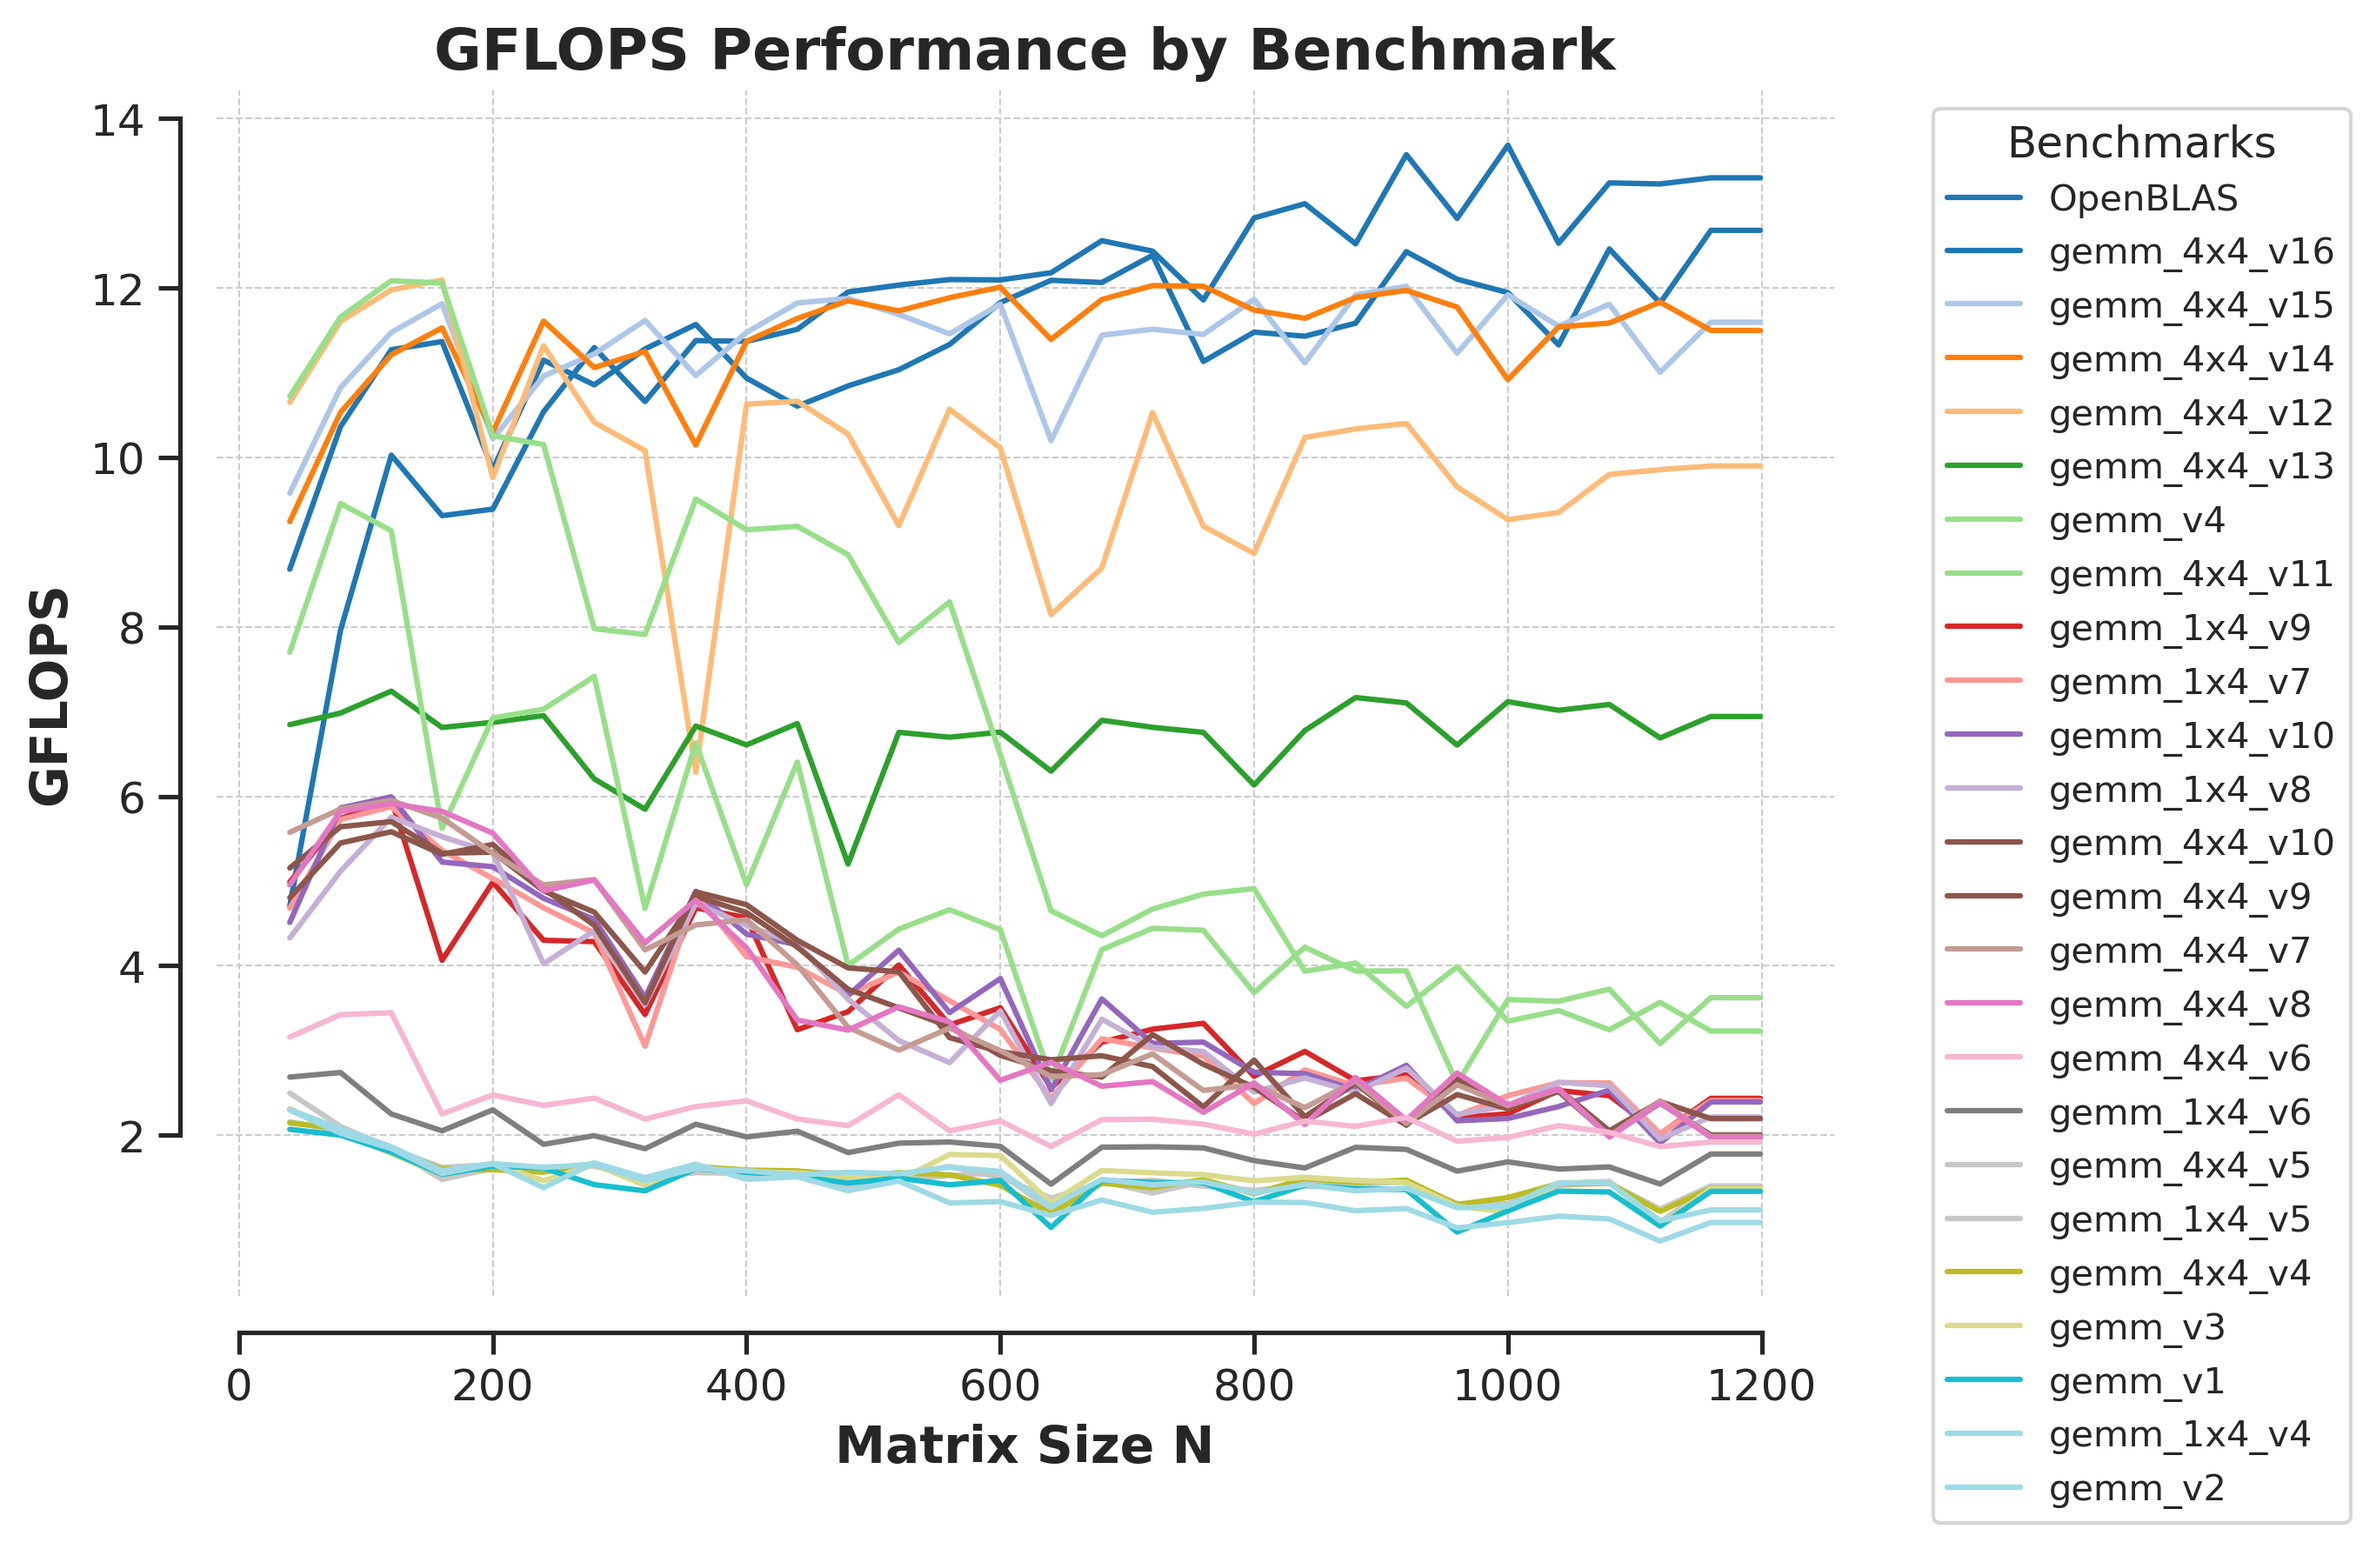
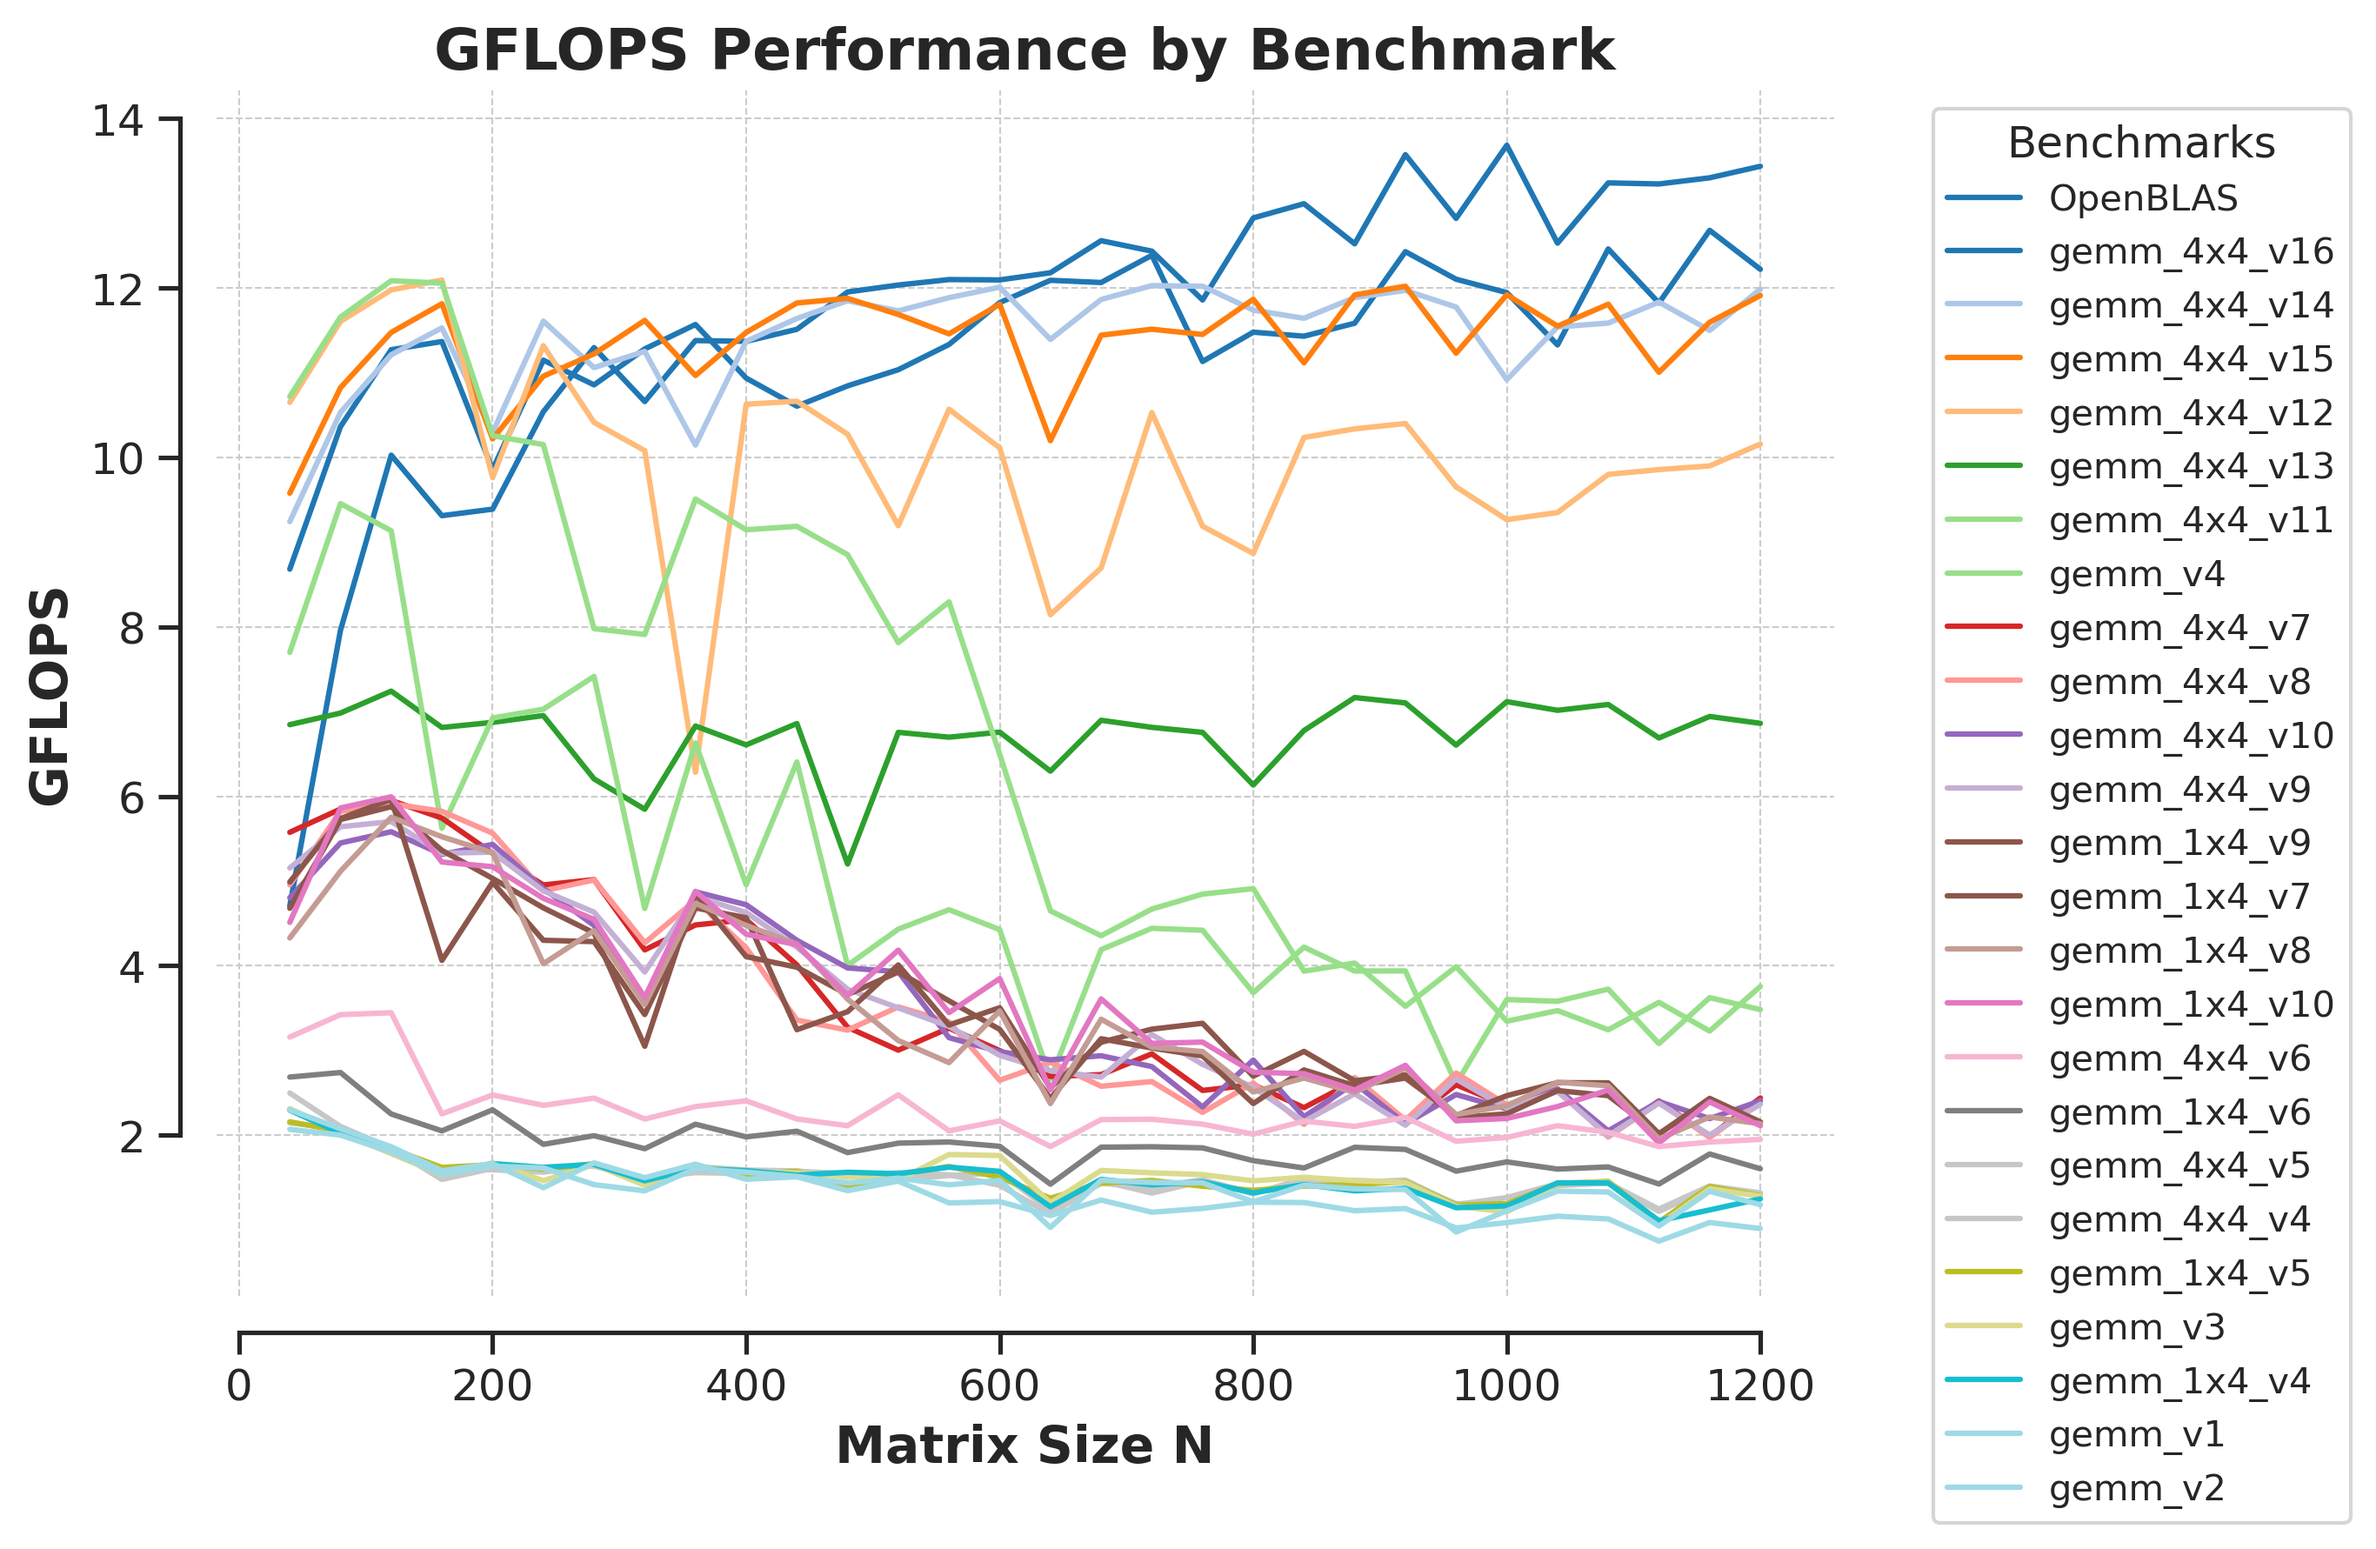
docs: update README.md

diff --git a/plot.py b/plot.py
@@ -3,8 +3,12 @@ matplotlib.use('Agg')
 import matplotlib.pyplot as plt
 import seaborn as sns
 import pandas as pd
-import numpy as np
 import os
+import numpy as np
+
+####################################################################################################
+# PLOT 1: PERFORMANCE COMPARISON
+####################################################################################################
 
 # Set the aesthetic style of the plots
 sns.set(style="ticks", palette="pastel")
@@ -12,27 +16,41 @@ sns.set(style="ticks", palette="pastel")
 # Path to the 'bench' directory
 bench_path = './bench'
 
-# Initialize a DataFrame to store all data
-all_data = pd.DataFrame()
+# Initialize a list to store indices from each file
+indices = []
 
+# Collect indices from each file
 for filename in os.listdir(bench_path):
     if filename.endswith('.txt'):
         file_path = os.path.join(bench_path, filename)
-        # Read data from each file
-        # Remove the '.txt' extension from the filename for use as a column name
-        column_name = filename.replace('.txt', '')
-        data = pd.read_csv(file_path, header=None, names=['N', column_name], index_col=0)
-        # Interpolate missing values for a smoother line
-        data = data.reindex(range(data.index.min(), data.index.max())).interpolate()
-        all_data = pd.concat([all_data, data], axis=1)
+        data = pd.read_csv(file_path, header=None, index_col=0)
+        indices.append(data.index.tolist())
 
-# Sort columns by the performance at N=1000 (or the closest available value)
-# We take the value for N=1000 or interpolate if it doesn't exist
-performance_at_1200 = all_data.loc[all_data.index.get_loc(1200, method='nearest')].sort_values(ascending=False)
-sorted_columns = performance_at_1200.index
+# Find the common indices in all files
+common_indices = set(indices[0]).intersection(*indices[1:])
+
+# Convert the set of common indices to a sorted list
+common_indices_list = sorted(list(common_indices))
+
+# Initialize a DataFrame to store all data
+all_data = pd.DataFrame(index=common_indices_list)
+
+# Read and combine data from each file
+for filename in os.listdir(bench_path):
+    if filename.endswith('.txt'):
+        file_path = os.path.join(bench_path, filename)
+        column_name = filename.replace('.txt', '')
+        data = pd.read_csv(file_path, header=None, names=[column_name], index_col=0)
+        all_data = all_data.join(data, how='inner')
+
+# Sort the DataFrame index
+all_data.sort_index(inplace=True)
 
 # Plot the data
 fig, ax = plt.subplots(figsize=(10, 6))  # Adjust the size of the figure
+
+# Sort columns by their performance at the largest common N value
+sorted_columns = all_data.loc[max(all_data.index)].sort_values(ascending=False).index
 
 # Generate a color palette that's visually distinct
 colors = plt.cm.tab20(np.linspace(0, 1, len(sorted_columns)))
@@ -59,5 +77,32 @@ ax.tick_params(axis='both', which='major', labelsize=12)
 sns.despine(trim=True, offset=10)
 
 # Save the figure
-fig_path = './img/gflops_performance.png'
+fig_path = './img/gflops_performance_test.png'
 plt.savefig(fig_path, format='png', dpi=300, bbox_inches='tight')
+
+####################################################################################################
+# PLOT 2: PERFORMANCE RELATIVE TO OpenBLAS
+####################################################################################################
+
+# Get the data at matrix size 1200x1200
+data_at_1200 = all_data.loc[1200]
+
+# Benchmark: OpenBLAS
+openblas_gflops = data_at_1200['OpenBLAS']
+
+# Construct a Markdown table
+markdown_table = "GFLOPs at matrix size 1200x1200:\n"
+markdown_table += "<!-- benchmark_results -->\n"
+markdown_table += "| Kernel | GFLOPs/s | Performance relative to cuBLAS |\n"
+markdown_table += "|:-------|---------:|:-------------------------------|\n"
+
+for kernel in sorted_columns:
+    gflops = data_at_1200[kernel]
+    relative_performance = (gflops / openblas_gflops) * 100
+    markdown_table += f"| {kernel} | `{gflops:.1f}` | {relative_performance:.1f}% |\n"
+
+markdown_table += "<!-- benchmark_results -->\n"
+
+# Save the Markdown table
+with open('./benchmark_results.md', 'w') as f:
+    f.write(markdown_table)

diff --git a/README.md b/README.md
@@ -70,3 +70,34 @@ In this command, `USE_PMU=1` likely activates the Performance Monitoring Unit (P
 A significant aspect of the project is the meticulous optimization of the GEMM operation, exhibiting a diverse performance range in GFLOPS across various matrix dimensions. This is achieved through a combination of sophisticated techniques: intricate loop unrolling, proactive data prefetching, strategic cache management, precise data alignment, concurrent multithreading, and the utilization of specialized x86 architecture instruction sets, including AVX2 and SSE. These enhancements are strategically designed to maximize CPU computational efficiency, substantially boosting the performance of matrix multiplication operations.
 
 ![gflops_performance](./img/gflops_performance.png)
+
+GFLOPs at matrix size 1200x1200:
+<!-- benchmark_results -->
+| Kernel | GFLOPs/s | Performance relative to cuBLAS |
+|:-------|---------:|:-------------------------------|
+| OpenBLAS | `13.4` | 100.0% |
+| gemm_4x4_v16 | `12.2` | 91.0% |
+| gemm_4x4_v14 | `12.0` | 89.2% |
+| gemm_4x4_v15 | `11.9` | 88.6% |
+| gemm_4x4_v12 | `10.2` | 75.6% |
+| gemm_4x4_v13 | `6.9` | 51.1% |
+| gemm_4x4_v11 | `3.8` | 28.0% |
+| gemm_v4 | `3.5` | 25.9% |
+| gemm_4x4_v7 | `2.4` | 18.2% |
+| gemm_4x4_v8 | `2.4` | 17.9% |
+| gemm_4x4_v10 | `2.4` | 17.9% |
+| gemm_4x4_v9 | `2.4` | 17.6% |
+| gemm_1x4_v9 | `2.2` | 16.1% |
+| gemm_1x4_v7 | `2.2` | 16.0% |
+| gemm_1x4_v8 | `2.1` | 15.9% |
+| gemm_1x4_v10 | `2.1` | 15.7% |
+| gemm_4x4_v6 | `2.0` | 14.5% |
+| gemm_1x4_v6 | `1.6` | 11.9% |
+| gemm_4x4_v5 | `1.3` | 9.8% |
+| gemm_4x4_v4 | `1.3` | 9.6% |
+| gemm_1x4_v5 | `1.3` | 9.6% |
+| gemm_v3 | `1.3` | 9.5% |
+| gemm_1x4_v4 | `1.2` | 9.3% |
+| gemm_v1 | `1.2` | 8.8% |
+| gemm_v2 | `0.9` | 6.7% |
+<!-- benchmark_results -->
